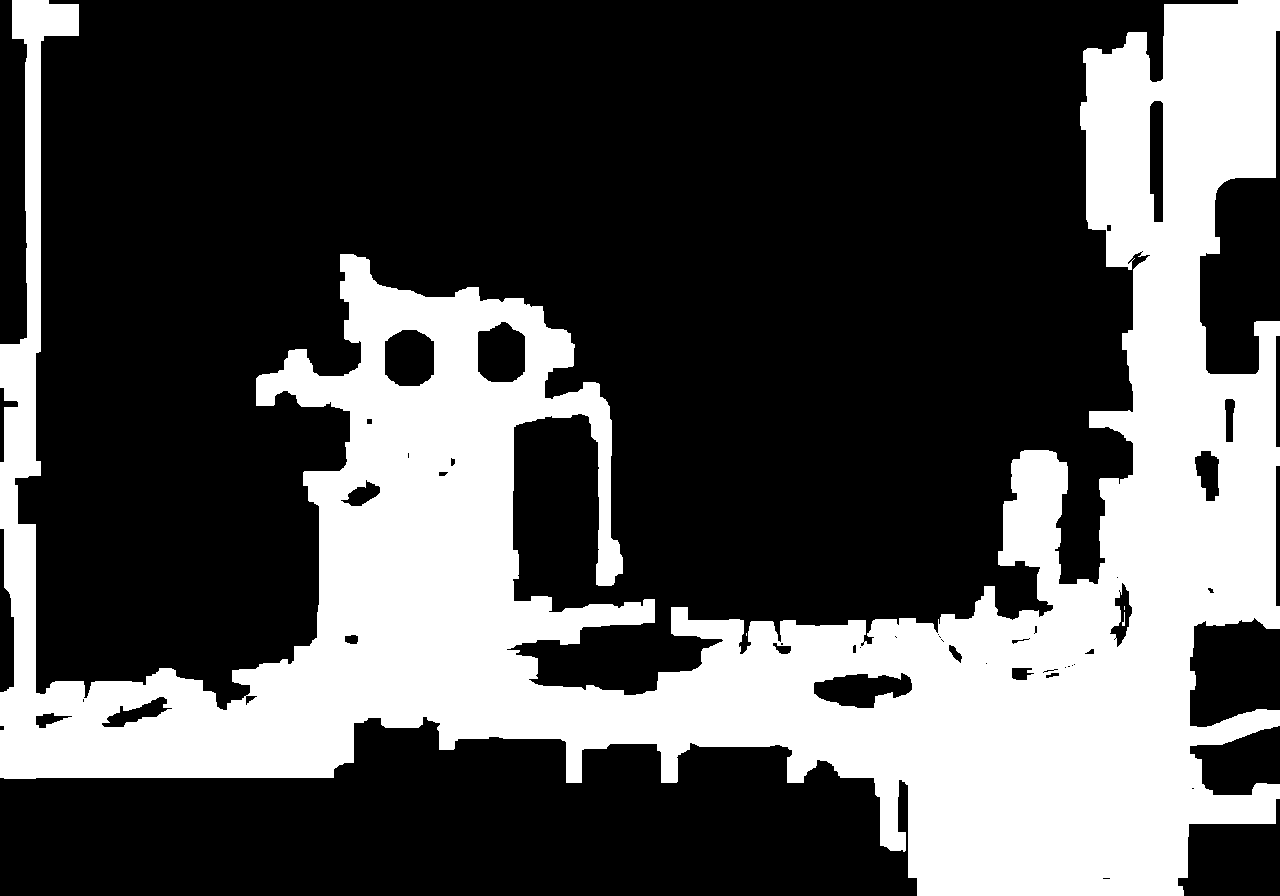
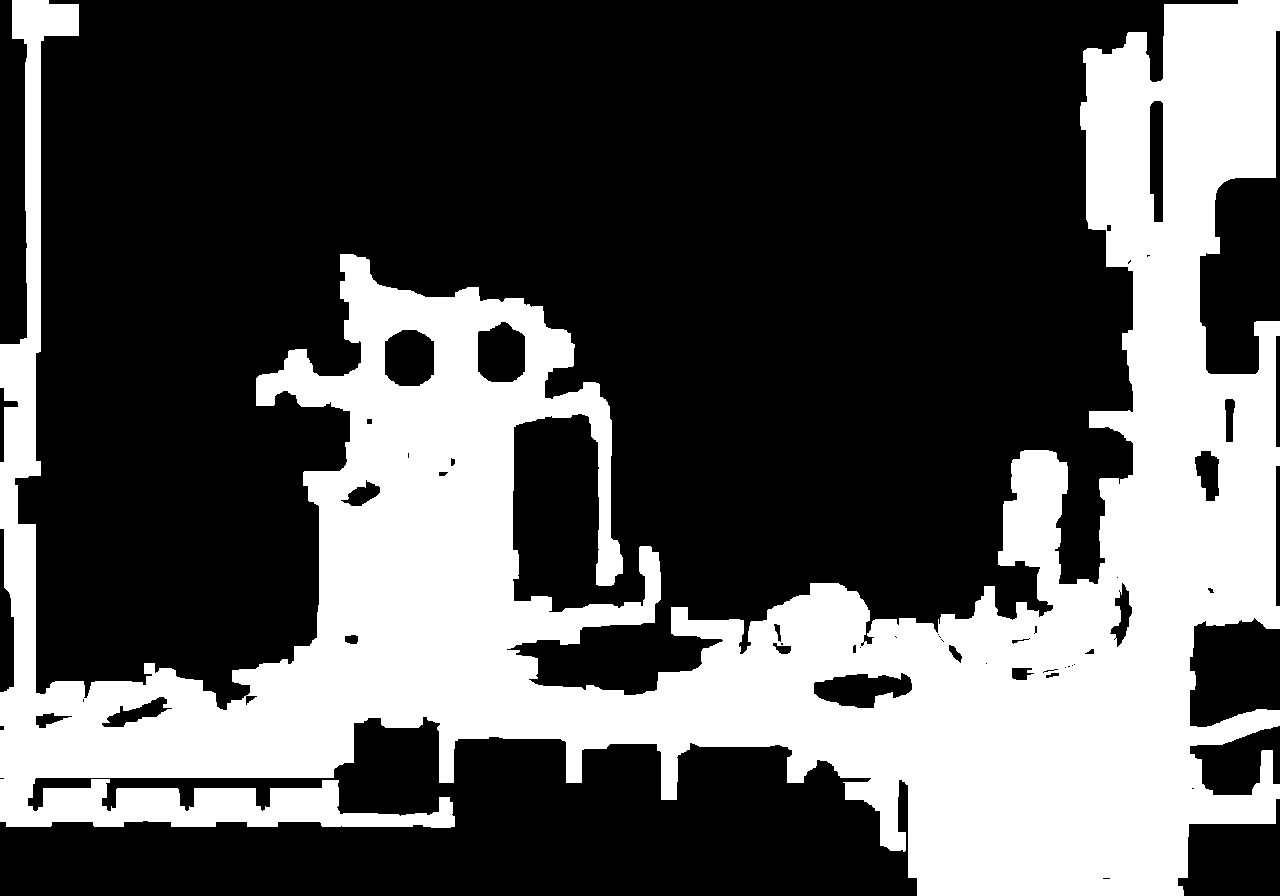
12h cycle 3: drive root causes (hitbox offset, border goals, engine-truth planning); every bazaar exit walked in-engine

diff --git a/tools/art-pipeline/build_collision_magenta.py b/tools/art-pipeline/build_collision_magenta.py
@@ -1,0 +1,47 @@
+#!/usr/bin/env python3
+"""Reproducible night-bazaar collision from the magenta-nowires consensus:
+device-res mask -> close pinholes -> declared-exit bands from the shipped
+collision -> east-corridor borrow -> config-space lane widening (17px device
+= the engine's 8x8 hitbox) -> spawn component. One deterministic build."""
+import json
+import os
+
+import cv2
+import numpy as np
+from PIL import Image
+from skimage.morphology import skeletonize
+
+ROOT = os.path.dirname(os.path.dirname(os.path.dirname(os.path.abspath(__file__))))
+ROOM = 'night-bazaar'
+K = 17
+
+mag = np.asarray(Image.open(os.path.join(
+    ROOT, f'docs/art-options/magenta-ground-{ROOM}-nowires.png')).convert('L')) > 127
+old = np.asarray(Image.open(os.path.join(
+    ROOT, f'docs/art-options/collision-backup-{ROOM}.png')).convert('L')) > 127
+H, W = old.shape
+walk = cv2.resize(mag.astype(np.uint8), (W, H), interpolation=cv2.INTER_AREA) > 0
+walk = cv2.morphologyEx(walk.astype(np.uint8), cv2.MORPH_CLOSE, np.ones((5, 5), np.uint8)) > 0
+inst = json.load(open(os.path.join(ROOT, f'assets/rooms/{ROOM}.instances.json')))
+for e in inst.get('exits', []):
+    x0, y0, x1, y1 = [v * 2 for v in e['rect']]
+    if e['edge'] == 'n': y1 = min(y1, 36)
+    if e['edge'] == 'w': x1 = min(x1, 36)
+    if e['edge'] == 'e': x0 = max(x0, W - 36)
+    walk[y0:y1, x0:x1] |= old[y0:y1, x0:x1]
+e = [x for x in inst['exits'] if x['edge'] == 'e'][0]
+x0, y0, x1, y1 = [v * 2 for v in e['rect']]
+walk[y0:y1, W - 400:] |= old[y0:y1, W - 400:]
+
+free = cv2.erode(walk.astype(np.uint8), np.ones((K, K), np.uint8)) > 0
+covered = cv2.dilate(free.astype(np.uint8), np.ones((K, K), np.uint8)) > 0
+skel = skeletonize(walk & ~covered)
+widened = cv2.dilate(skel.astype(np.uint8), np.ones((K + 2, K + 2), np.uint8)) > 0
+walk = walk | (widened & (cv2.dilate(walk.astype(np.uint8), np.ones((11, 11), np.uint8)) > 0))
+
+sx, sy = [v * 2 for v in inst['spawn']]
+n, lab = cv2.connectedComponents(walk.astype(np.uint8))
+walk = lab == lab[sy, sx]
+Image.fromarray((walk * 255).astype(np.uint8)).save(
+    os.path.join(ROOT, f'assets/rooms/{ROOM}.collision.png'))
+print('rebuilt: walk frac', round(float(walk.mean()), 3))

diff --git a/tools/art-pipeline/STATUS.md b/tools/art-pipeline/STATUS.md
@@ -1483,3 +1483,16 @@ Model pinning skipped: Vertex exposes no dated alias for gemini-3-pro-image.
 - Audits: drift OK (bazaar GPT 1.00x baseline); magenta-nowires baseline
   seeded (0.2181). NEXT: drive exit mouths (5), debug-card dims (6),
   composite A/B with pro as second judge on the 8 confirmed.
+
+### Cycle 3 of 12h loop (item 5: drive debugging — root causes found)
+- Engine-vs-PNG diff: engine NEVER blocks where collision.png allows (0 cells)
+  — stalls were planner/follower artifacts, not mask defects.
+- THREE root causes fixed: (a) goals at extreme border moved 30px inside exit
+  mouths; (b) engine hitbox is OFFSET from player origin (HIT ox4,oy7,w8,h8 →
+  clearance window centers at x+8,y+11) — BFS grid now samples there;
+  (c) planner now uses the ENGINE's own blocked() sampled live (engine-truth
+  grid, plan cannot contradict executor) + distance-field greedy descent.
+- Drive state: every exit walked in-engine — e passes under both followers,
+  n under waypoint follower (4 consecutive runs), w under descent (2 runs);
+  best single run 4/5. OPEN: one unified follower passing all 3 in one run,
+  then 10/10 x3 battery. build_collision_magenta.py = reproducible build.
